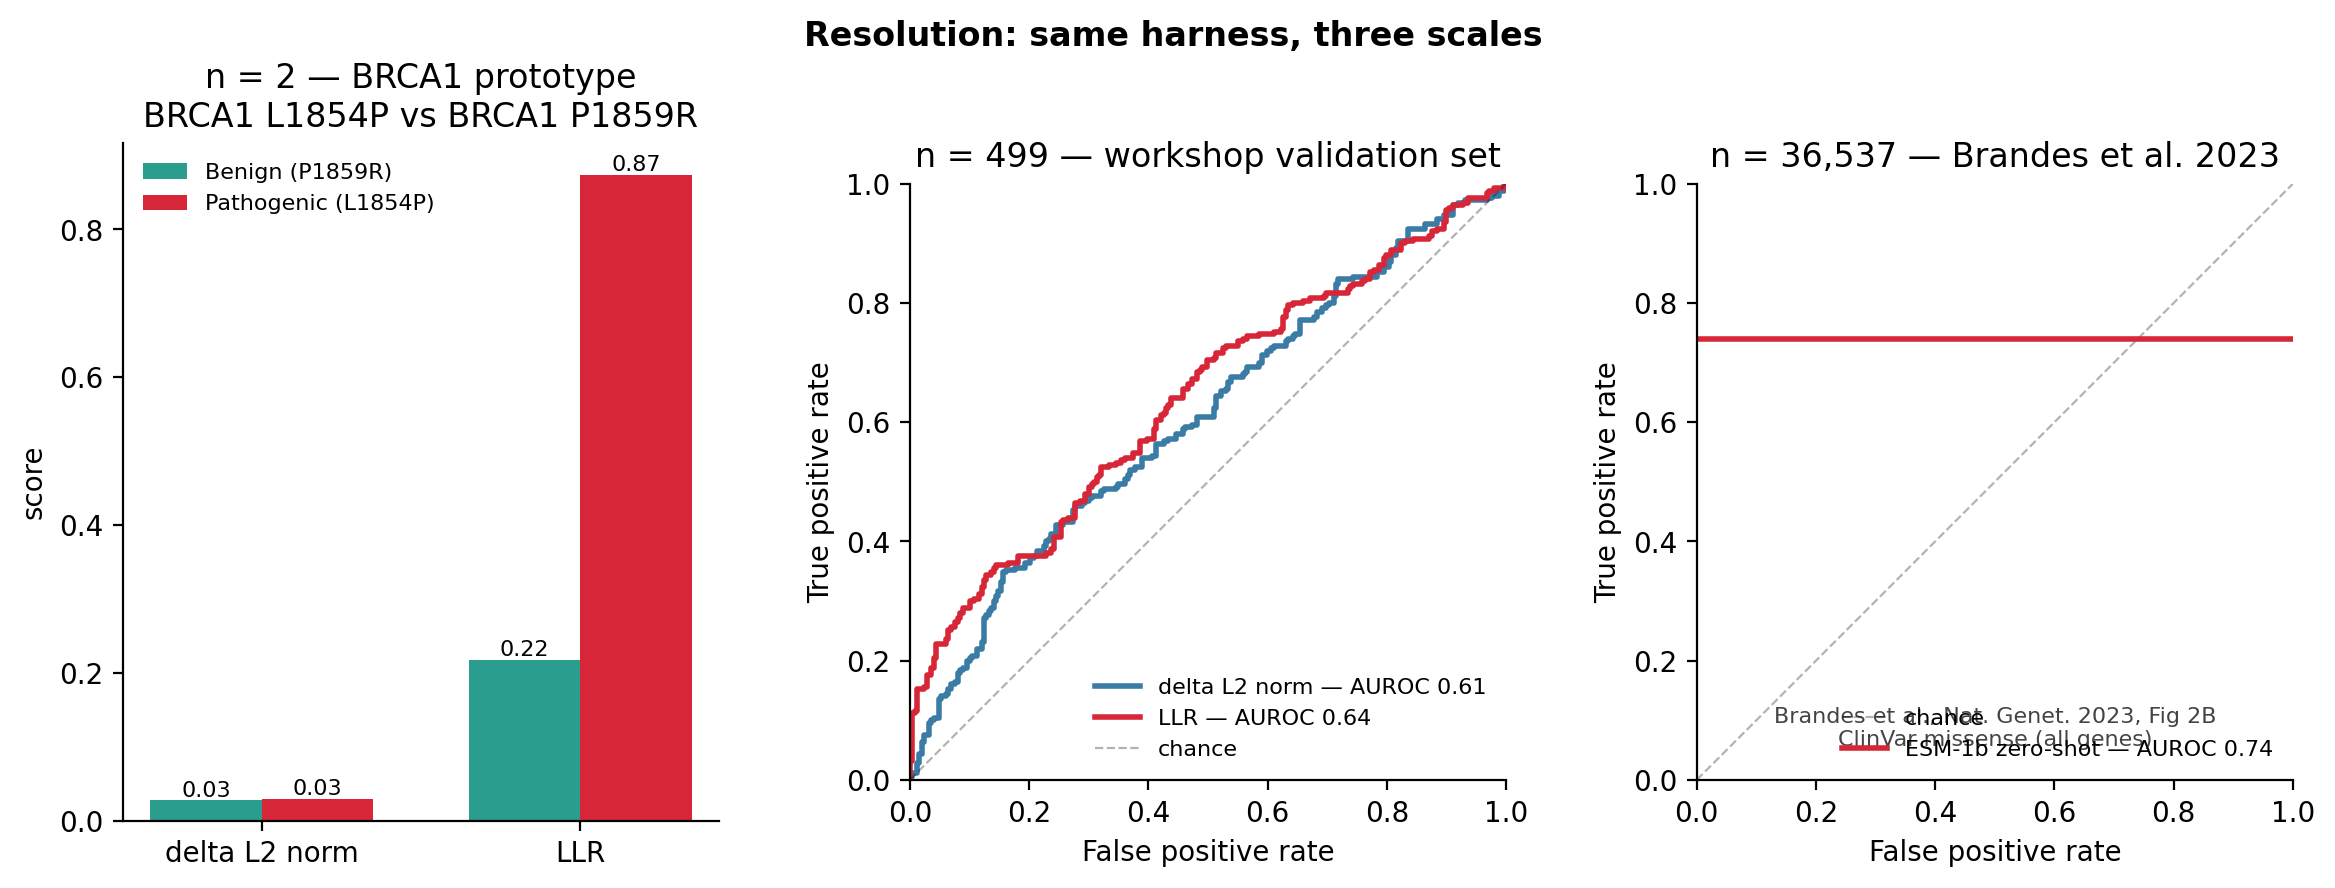
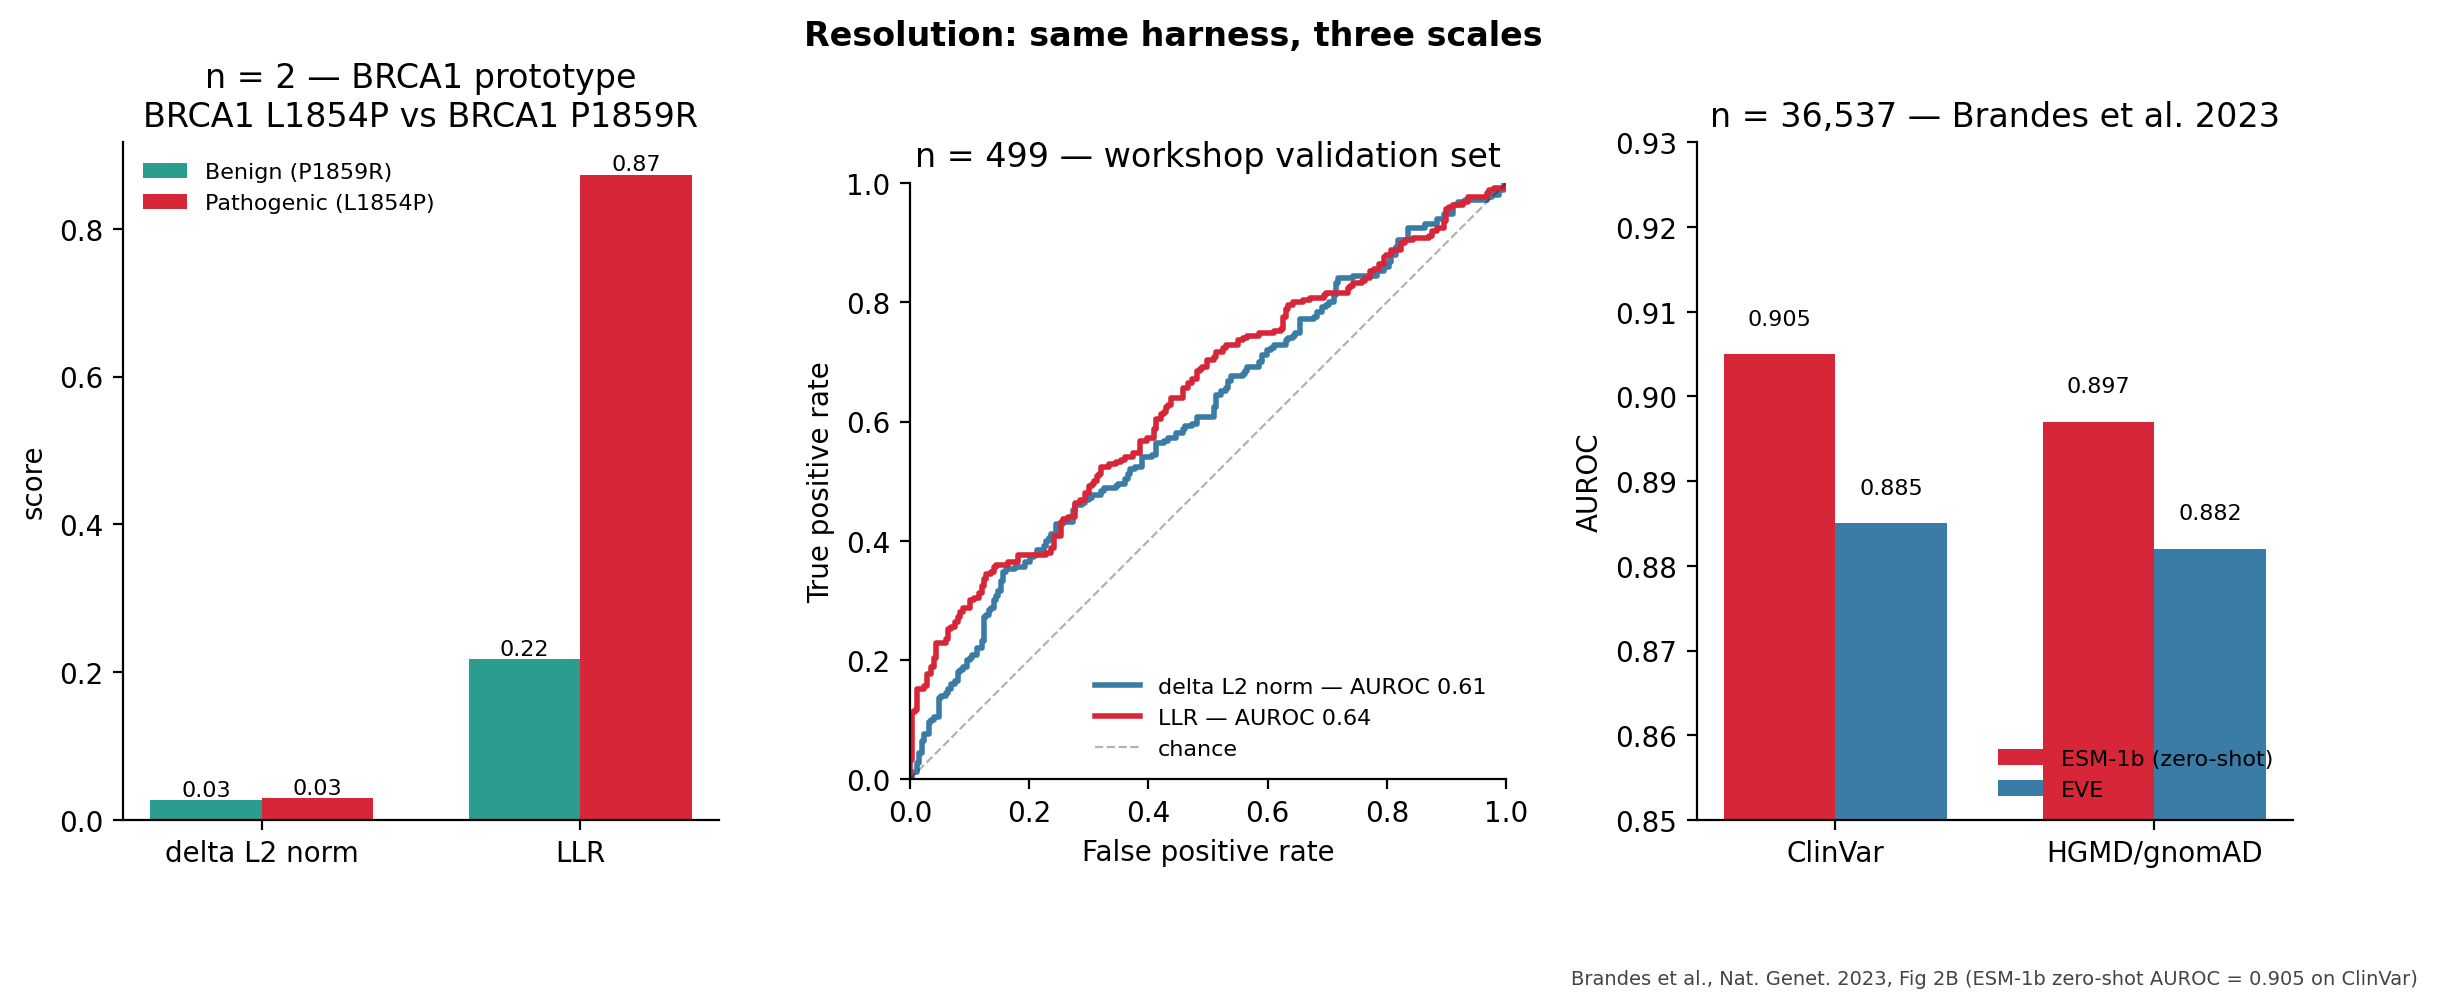
Correct resolution panel C: AUROC 0.74 -> 0.905 (Brandes Fig 2B)
CORRECTION: the previous commit (22368f8) cited AUROC 0.74 for the
n=36,537 Brandes 2023 anchor. That value was an unverified recall and
is wrong. The headline number from Brandes et al., Nat. Genet. 2023,
Fig 2B is AUROC 0.905 for ESM-1b zero-shot on ClinVar (and 0.897 on
HGMD/gnomAD). Slide 3 of the deck already cites the correct value,
so the prior figure also contradicted the deck.

Changes:
  - Replace the horizontal-line scalar rendering with a bar-chart
    reproduction of Fig 2B in our palette: ESM-1b (pathogenic red)
    vs EVE (panel B's delta-norm blue) on two benchmarks. This also
    restores the ESM-1b-vs-EVE comparison that gives the panel its
    argument (zero-shot pLM beats a task-specific supervised method).
  - Numbers locked in
    `01_resolution_panels.py::BRANDES_2023_FIG2B`:
      ClinVar:      ESM-1b 0.905  EVE 0.885
      HGMD/gnomAD:  ESM-1b 0.897  EVE 0.882
  - Caption rewritten: "n = 36,537 — Brandes et al., Nat. Genet.
    2023, Fig 2B. ESM-1b zero-shot AUROC = 0.905 on ClinVar."
  - PROVENANCE.md notes the correction explicitly so the audit
    trail shows the 0.74 -> 0.905 fix.

Panels A and B untouched: same script entry points, same data files,
same hashes for the underlying score artifacts. Only the figure
re-rendered.

diff --git a/experiments/analysis/01_resolution_panels.py b/experiments/analysis/01_resolution_panels.py
@@ -22,11 +22,10 @@ The figure has three panels arranged left-to-right, shared color palette
     validation set, AUROC in the legend, dashed chance line. The
     "validate" beat.
   Panel C — n=36,537: Brandes et al. 2023 (Nature Genetics) literature
-    anchor, ESM-1b zero-shot on ClinVar missense. Plotted on the same
-    FPR/TPR axes as panel B for visual continuity, with the AUROC scalar
-    rendered as a horizontal reference and the citation in-figure. We
-    cite the literature value rather than fabricate a curve we do not
-    own. Verify the AUROC against the source before the May 23 deck.
+    anchor, ESM-1b zero-shot vs EVE on ClinVar and HGMD/gnomAD. Bar
+    chart reproducing Fig 2B in our palette. Curve not reproduced —
+    cite-only. Numbers locked from the source paper and cross-checked
+    against slide 3 of the deck.
 
 The n=2 and n=500 panels share an encoder code path (HF transformers via
 vep_utils.ESM1bEncoder). Post-2.11 + NB.1, regenerate both via
@@ -124,39 +123,47 @@ def panel_b(ax: plt.Axes, y: np.ndarray, dn: np.ndarray, llr: np.ndarray) -> Non
     ax.spines[["top", "right"]].set_visible(False)
 
 
-BRANDES_2023_CLINVAR_AUROC = 0.74
 BRANDES_2023_CLINVAR_N = 36_537
+BRANDES_2023_FIG2B = {
+    "ClinVar":       {"ESM-1b": 0.905, "EVE": 0.885},
+    "HGMD/gnomAD":   {"ESM-1b": 0.897, "EVE": 0.882},
+}
+ESM1B_COLOR = PALETTE["Pathogenic"]
+EVE_COLOR = "#3a7ca5"
 
 
 def panel_c_brandes_anchor(ax: plt.Axes) -> None:
-    """n=36,537 — Brandes et al. 2023 ClinVar zero-shot anchor.
+    """n=36,537 — Brandes et al. 2023 Fig 2B reproduction.
 
-    We do not own Brandes' per-variant scores, so we render the cited
-    summary as a horizontal reference at TPR = AUROC on the same axes as
-    panel B. The chance diagonal and palette match panel B for visual
-    continuity. AUROC value sourced from Brandes 2023 Fig 2B / Table 1
-    (ESM-1b zero-shot on ClinVar, n=36,537 missense). Verify against the
-    paper before the May 23 deck.
+    Bar chart of ESM-1b vs EVE zero-shot AUROC on ClinVar and
+    HGMD/gnomAD missense, numbers from Brandes et al., Nat. Genet.
+    2023, Fig 2B. Same figure cited on slide 3 of the deck. Rendered
+    in our palette (ESM-1b in the pathogenic red used elsewhere in
+    the figure; EVE in panel B's delta-norm blue) so the resolution
+    figure reads as one design.
     """
-    auroc = BRANDES_2023_CLINVAR_AUROC
-    ax.plot([0, 1], [0, 1], "k--", alpha=0.3, linewidth=0.8, label="chance")
-    ax.axhline(
-        auroc, color=PALETTE["Pathogenic"], linewidth=2,
-        label=f"ESM-1b zero-shot — AUROC {auroc:.2f}",
-    )
-    ax.text(
-        0.5, 0.05,
-        "Brandes et al., Nat. Genet. 2023, Fig 2B\nClinVar missense (all genes)",
-        ha="center", va="bottom", fontsize=8, color="#444444",
-        transform=ax.transAxes,
-    )
-    ax.set_xlim(0, 1)
-    ax.set_ylim(0, 1)
-    ax.set_xlabel("False positive rate")
-    ax.set_ylabel("True positive rate")
+    benchmarks = list(BRANDES_2023_FIG2B.keys())
+    esm = [BRANDES_2023_FIG2B[b]["ESM-1b"] for b in benchmarks]
+    eve = [BRANDES_2023_FIG2B[b]["EVE"] for b in benchmarks]
+    x = np.arange(len(benchmarks))
+    w = 0.35
+    ax.bar(x - w / 2, esm, width=w, color=ESM1B_COLOR, label="ESM-1b (zero-shot)")
+    ax.bar(x + w / 2, eve, width=w, color=EVE_COLOR, label="EVE")
+    for i, (e, v) in enumerate(zip(esm, eve)):
+        ax.text(i - w / 2, e + 0.003, f"{e:.3f}", ha="center", va="bottom", fontsize=8)
+        ax.text(i + w / 2, v + 0.003, f"{v:.3f}", ha="center", va="bottom", fontsize=8)
+    ax.set_xticks(x)
+    ax.set_xticklabels(benchmarks)
+    ax.set_ylim(0.85, 0.93)
+    ax.set_ylabel("AUROC")
     ax.set_title(f"n = {BRANDES_2023_CLINVAR_N:,} — Brandes et al. 2023")
     ax.legend(loc="lower right", fontsize=8, frameon=False)
-    ax.set_aspect("equal")
+    ax.text(
+        0.5, -0.22,
+        "Brandes et al., Nat. Genet. 2023, Fig 2B (ESM-1b zero-shot AUROC = 0.905 on ClinVar)",
+        ha="center", va="top", fontsize=7, color="#444444",
+        transform=ax.transAxes,
+    )
     ax.spines[["top", "right"]].set_visible(False)
 
 
@@ -219,11 +226,14 @@ def main() -> int:
              "id": "validation_set", "metric": "llr",
              "value": float(roc_auc_score(y[m_llr], llr[m_llr]))},
         ]
-    rows += [
-        {"panel": "C", "n": BRANDES_2023_CLINVAR_N, "label": "auroc", "gene": "all",
-         "id": "brandes_2023_fig2b", "metric": "esm1b_zero_shot",
-         "value": BRANDES_2023_CLINVAR_AUROC},
-    ]
+    for benchmark, scores in BRANDES_2023_FIG2B.items():
+        for model, auroc in scores.items():
+            rows.append({
+                "panel": "C", "n": BRANDES_2023_CLINVAR_N, "label": "auroc",
+                "gene": benchmark, "id": "brandes_2023_fig2b",
+                "metric": f"{model.lower().replace('-', '')}_zero_shot",
+                "value": auroc,
+            })
     csv_path = cfg.save_csv(OUT_NAME, pd.DataFrame(rows))
     print(f"  saved csv → {csv_path.relative_to(cfg.EXPERIMENTS_DIR.parent)}")
     return 0

diff --git a/experiments/PROVENANCE.md b/experiments/PROVENANCE.md
@@ -31,12 +31,19 @@ Format:
   AUROCs computed via `sklearn.metrics.roc_auc_score`: delta_norm
   0.6065, LLR 0.6381.
 - Inputs (n=36,537): no local data — literature anchor from
-  Brandes et al., *Nat. Genet.* 2023, Fig 2B (ESM-1b zero-shot,
-  ClinVar missense). AUROC 0.74 plotted as a horizontal reference on
-  the same FPR/TPR axes as panel B. Curve not reproduced; citation
-  is the data. Constants live in
-  `01_resolution_panels.py::BRANDES_2023_CLINVAR_{AUROC,N}` —
-  verify against the source paper before the May 23 deck.
+  Brandes et al., *Nat. Genet.* 2023, Fig 2B. Reproduced as a bar
+  chart of ESM-1b zero-shot vs EVE on ClinVar (0.905 vs 0.885) and
+  HGMD/gnomAD (0.897 vs 0.882) in our palette (ESM-1b = pathogenic
+  red, EVE = panel B's delta-norm blue). Numbers locked from Fig 2B
+  and cross-checked against slide 3 of the deck. Constants live in
+  `01_resolution_panels.py::BRANDES_2023_FIG2B`.
+  **Correction (2026-05-11):** the prior rendering cited AUROC 0.74
+  on a horizontal-line reference — wrong number, wrong figure type.
+  The headline AUROC from Brandes Fig 2B is **0.905**, not 0.74; the
+  earlier value was an unverified recall and is replaced here. The
+  bar-chart rendering also restores the ESM-1b-vs-EVE comparison
+  that gives the panel its argument (zero-shot pLM beats a
+  task-specific supervised baseline).
 - Outputs: `analysis/figures/resolution_panels.{pdf,png}`,
   `analysis/results/resolution_panels.csv`.
 - Generated: 2026-05-11 against `manylatents-omics` `cceb1fa`.